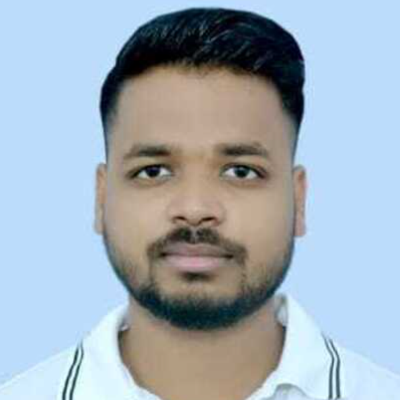
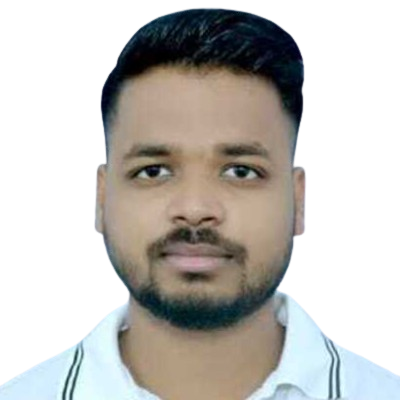
sssssssss

diff --git a/src/components/sections/Hero.tsx b/src/components/sections/Hero.tsx
@@ -6,7 +6,7 @@ const Hero = () => {
         >
             {/* Profile Image */}
             <img
-                src="/src/assets/image_wbg.png"
+                src={require("../../assets/image.png")}
                 alt="Deepak Das"
                 className="w-32 h-32 md:w-40 md:h-40 rounded-full mb-6 border-1 border-blue-500 shadow-lg object-cover"
             />

diff --git a/index.html b/index.html
@@ -2,7 +2,7 @@
 <html lang="en">
   <head>
     <meta charset="UTF-8" />
-    <link rel="icon" type="image/png" href="/src/assets/image_wbg.png" />
+    <link rel="icon" type="image/png" href="/src/assets/image.png" />
     <link href="/src/styles.css" rel="stylesheet">
     <meta name="viewport" content="width=device-width, initial-scale=1.0" />
     <title>D Das</title>
